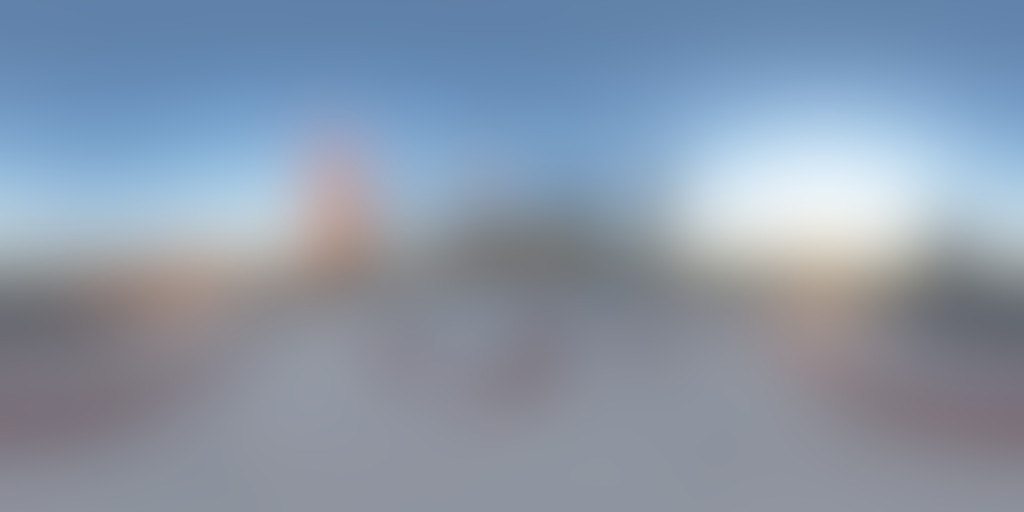
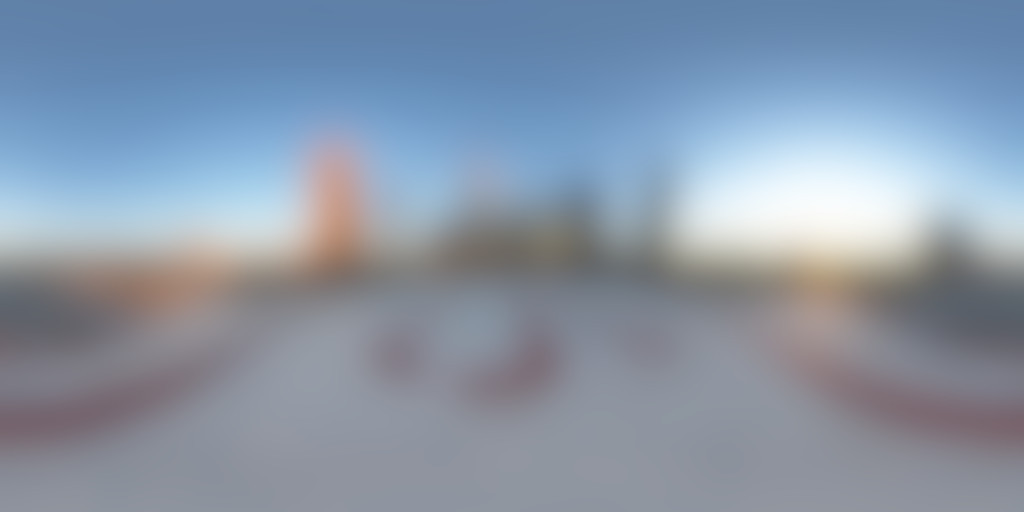
Reverted changes.

diff --git a/src/assets/shaders/webgl2/pbr/IBL2.glsl.js b/src/assets/shaders/webgl2/pbr/IBL2.glsl.js
@@ -70,7 +70,7 @@ vec3
 getIBLRadianceGGX (const in vec3 n, const in vec3 v, const in float roughness, const in vec3 F0, const in float specularWeight)
 {
    float NdotV      = clamp (dot (n, v), 0.0, 1.0);
-   float lod        = pow (roughness, 0.5) * float (x3d_EnvironmentLightSource .specularTextureLevels); // Holger: added pow.
+   float lod        = roughness * float (x3d_EnvironmentLightSource .specularTextureLevels);
    vec3  reflection = normalize (reflect (-v, n));
 
    vec2 brdfSamplePoint = clamp (vec2 (NdotV, roughness), vec2 (0.0), vec2 (1.0));
@@ -128,7 +128,7 @@ vec3
 getIBLRadianceGGXIridescence (const in vec3 n, const in vec3 v, const in float roughness, const in vec3 F0, const in vec3 iridescenceFresnel, const in float iridescenceFactor, const in float specularWeight)
 {
    float NdotV      = clamp (dot (n, v), 0.0, 1.0);
-   float lod        = pow (roughness, 0.5) * float (x3d_EnvironmentLightSource .specularTextureLevels); // Holger: added pow.
+   float lod        = roughness * float (x3d_EnvironmentLightSource .specularTextureLevels);
    vec3  reflection = normalize (reflect (-v, n));
 
    vec2 brdfSamplePoint = clamp (vec2 (NdotV, roughness), vec2 (0.0), vec2 (1.0));
@@ -293,7 +293,7 @@ getIBLRadianceAnisotropy (const in vec3 n, const in vec3 v, const in float rough
    float bendFactorPow4     = bendFactor * bendFactor * bendFactor * bendFactor;
    vec3  bentNormal         = normalize (mix (anisotropicNormal, n, bendFactorPow4));
 
-   float lod        = pow (roughness, 0.5) * float (x3d_EnvironmentLightSource .specularTextureLevels); // Holger: added pow.
+   float lod        = roughness * float (x3d_EnvironmentLightSource .specularTextureLevels);
    vec3  reflection = normalize (reflect (-v, bentNormal));
 
    vec2 brdfSamplePoint = clamp (vec2 (NdotV, roughness), vec2 (0.0), vec2 (1.0));
